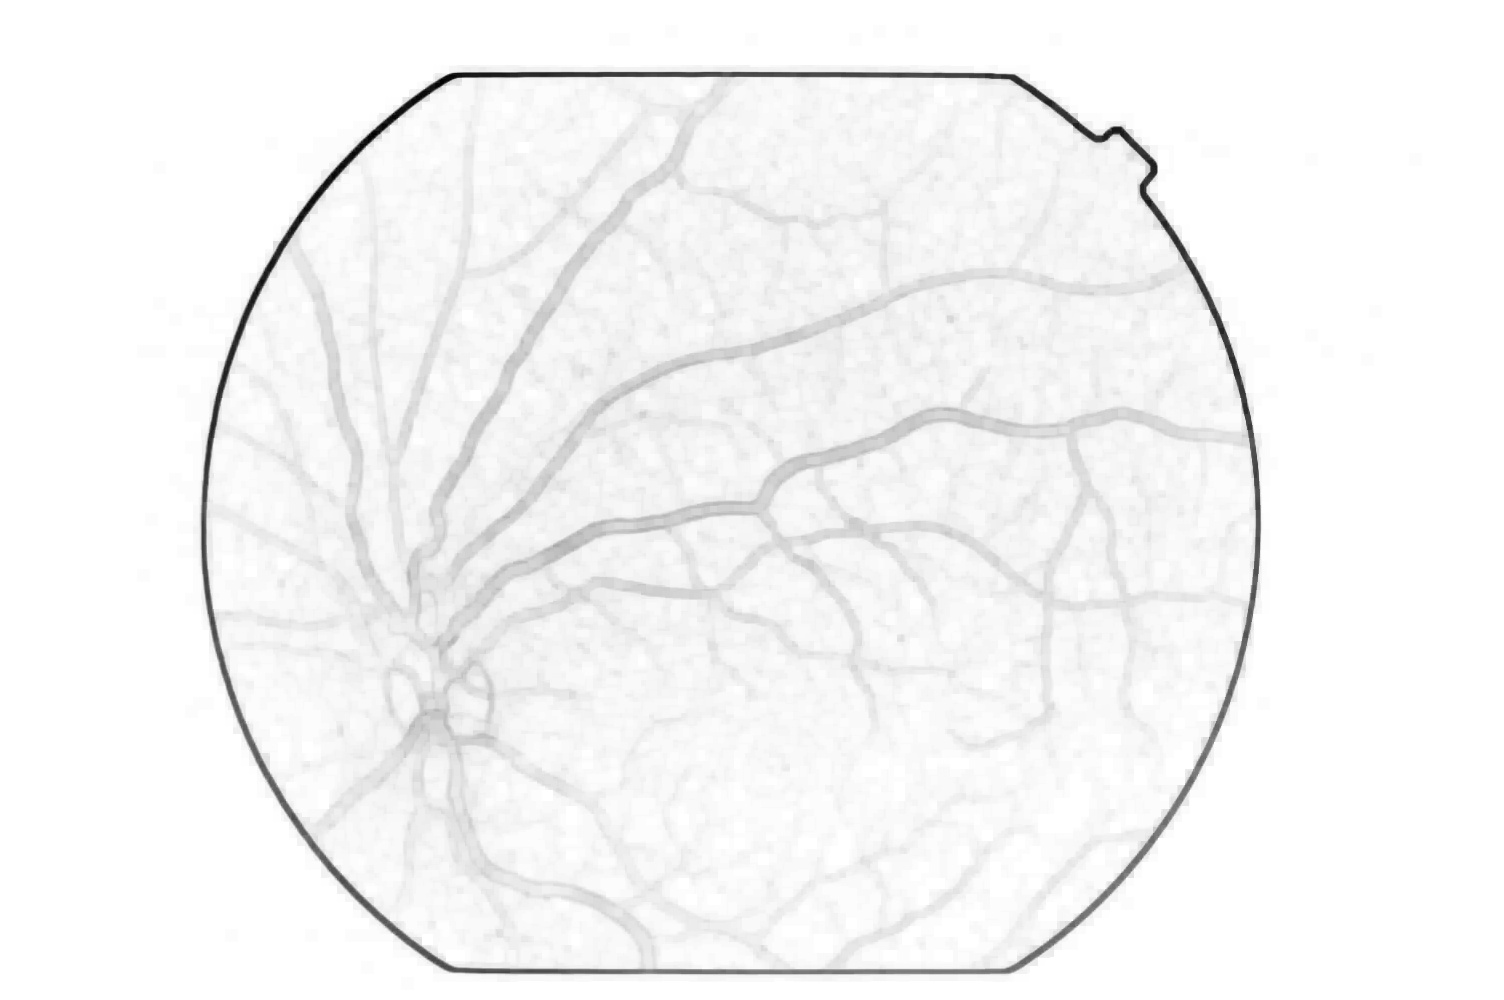
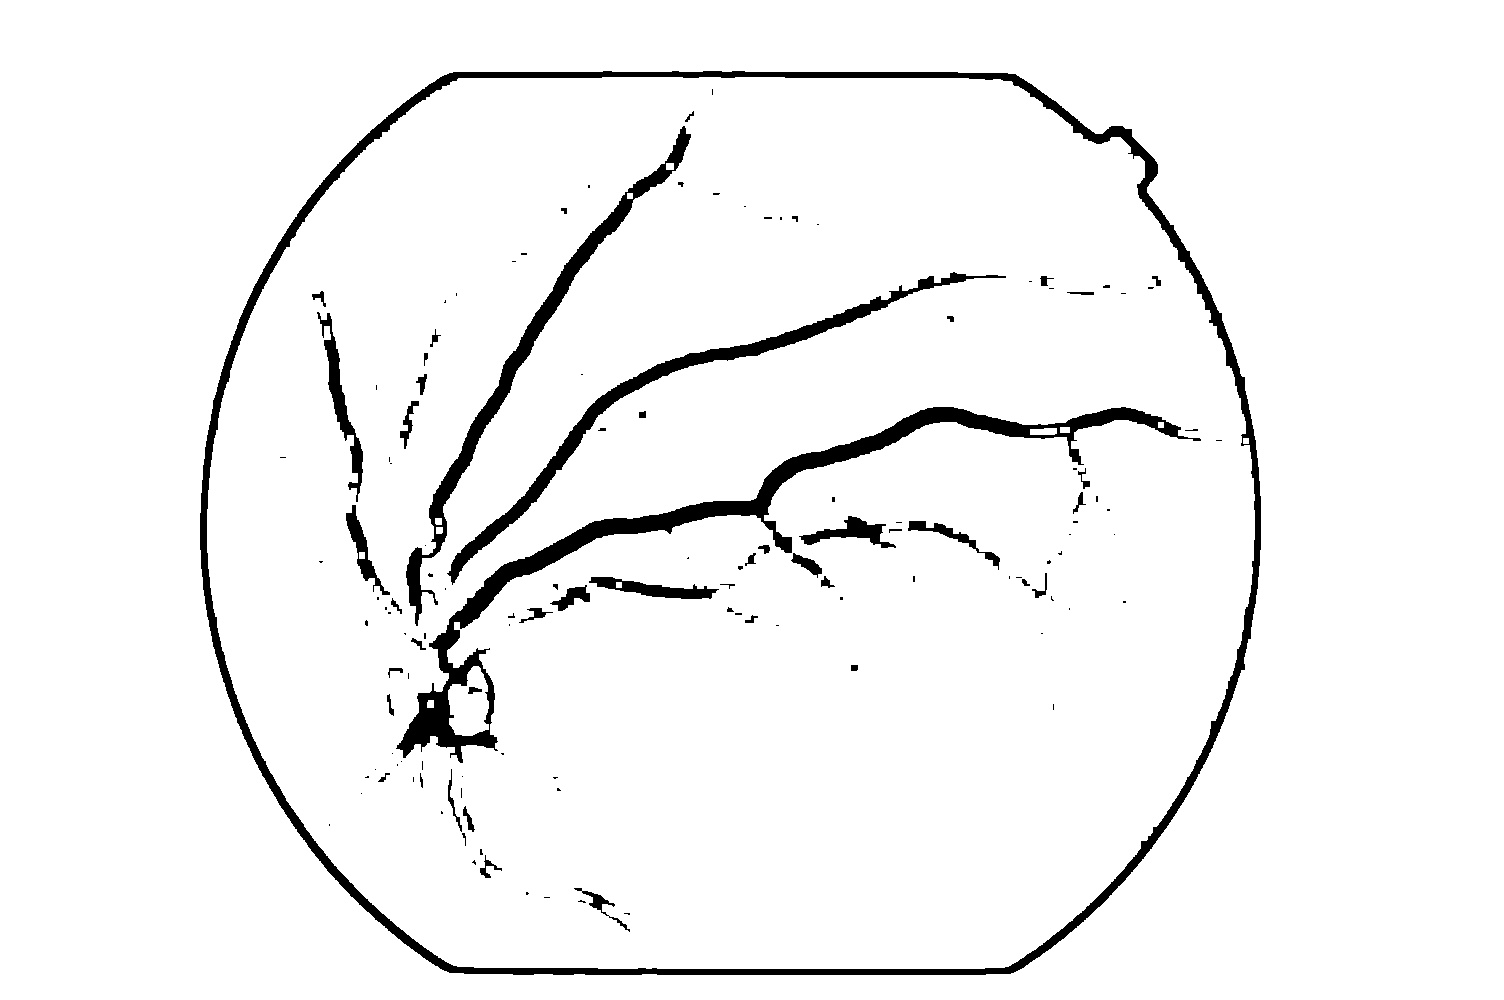
performance parameter done

diff --git a/operationfunctions.py b/operationfunctions.py
@@ -4,6 +4,7 @@ import math as m
 import functions as f
 
 
+
 def morphology(image, kernel):
     array = image[:]
     print("Start Morphological Operation")
@@ -21,6 +22,31 @@ def morphology(image, kernel):
             array[i][j] = f.normalization(array[i][j], minn, maxx)
             array[i][j] = f.normalization(array[i][j], 255, 0)
 
-    # ret, tarray = cv.threshold(array,250,255,cv.THRESH_BINARY)
+    ret, tarray = cv.threshold(array,220,255,cv.THRESH_BINARY)
     # todo: Adaptive thresholding
-    return array
+    return tarray
+
+
+
+# yourimage     givenImage      label       number
+# 0             0               TN          2*0 + 0 = 0
+# 0             1               FN          2*0 + 1 = 1
+# 1             0               FP          2*1 + 0 = 2
+# 1             1               TP          2*1 + 1 = 3
+# where 0 is background 1 is foreground
+
+# yourimage     givenImage      label       number
+# 255           255             TN          2*255 + 255 = 765 = 253 (as ans will not exceed 255)
+# 255           0               FN          2*255 + 0 = 510 = 254
+# 0             255             FP          2*0 + 255 = 255 = 255
+# 0             0               TP          2*0 + 0 = 0 = 0
+# where 255 is background 0 is foreground
+def performancePrams(yourImage, givenImage):
+    output = (yourImage * 2) + givenImage
+    unique_elements, counts = np.unique(output, return_counts=True)
+    print(unique_elements, counts)
+    TP, TN, FN, FP = counts
+    TPR = TP / (TP + FN)
+    FPR = FP / (TN + FP)
+    print([TPR, FPR])
+    return [TPR, FPR]

diff --git a/main.py b/main.py
@@ -5,10 +5,10 @@ import functions as f
 import operationfunctions as of
 
 array = cv.imread("IM000001/IM000001.JPG",0)
-cv.imwrite("haha.JPG",array)
-array1 = cv.imread("IM000001/IM000001--vessels.jpg")
+array1 = cv.imread("IM000001/IM000001--vessels.jpg",0)
+ret, tarray = cv.threshold(array1,120,255,cv.THRESH_BINARY)
 
-
+cv.imwrite("haha.JPG",tarray)
 kernel = np.array([[1, 1, 1, 1, 1, 1],
                    [1, 1, 1, 1, 1, 1],
                    [1, 1, 1, 1, 1, 1],
@@ -17,6 +17,11 @@ kernel = np.array([[1, 1, 1, 1, 1, 1],
                    [1, 1, 1, 1, 1, 1]])
 res = of.morphology(array, kernel)
 cv.imwrite("hahaha.JPG", res)
+
+
+of.performancePrams(res, tarray)
+
+
 
 
 # /////   ---- Extra ----   /////
